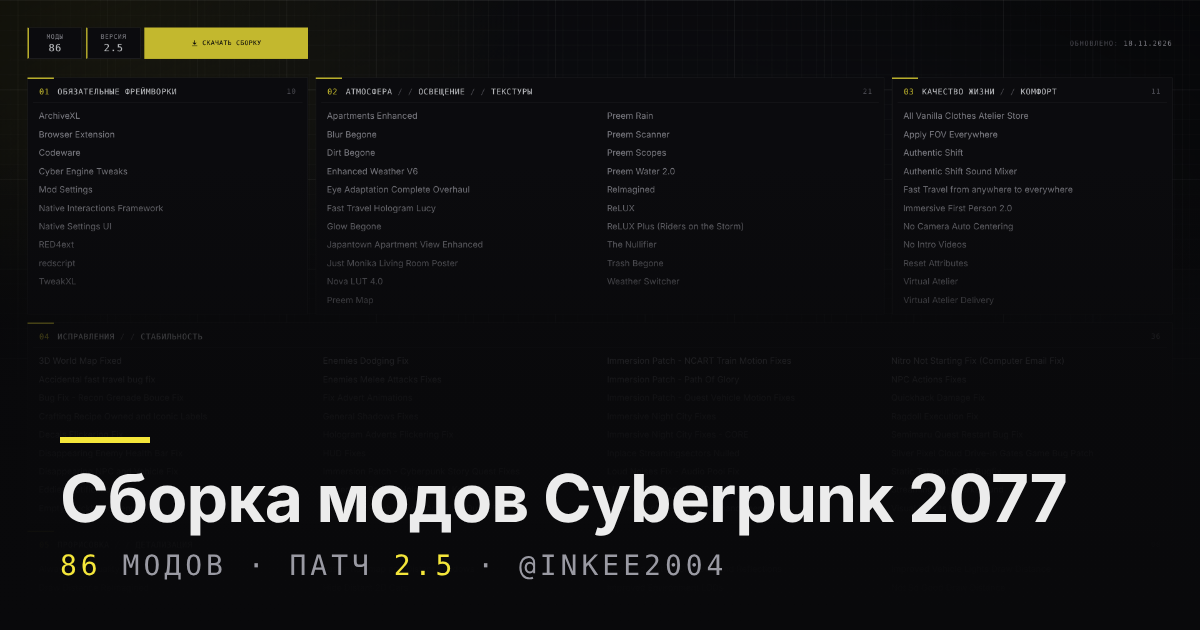
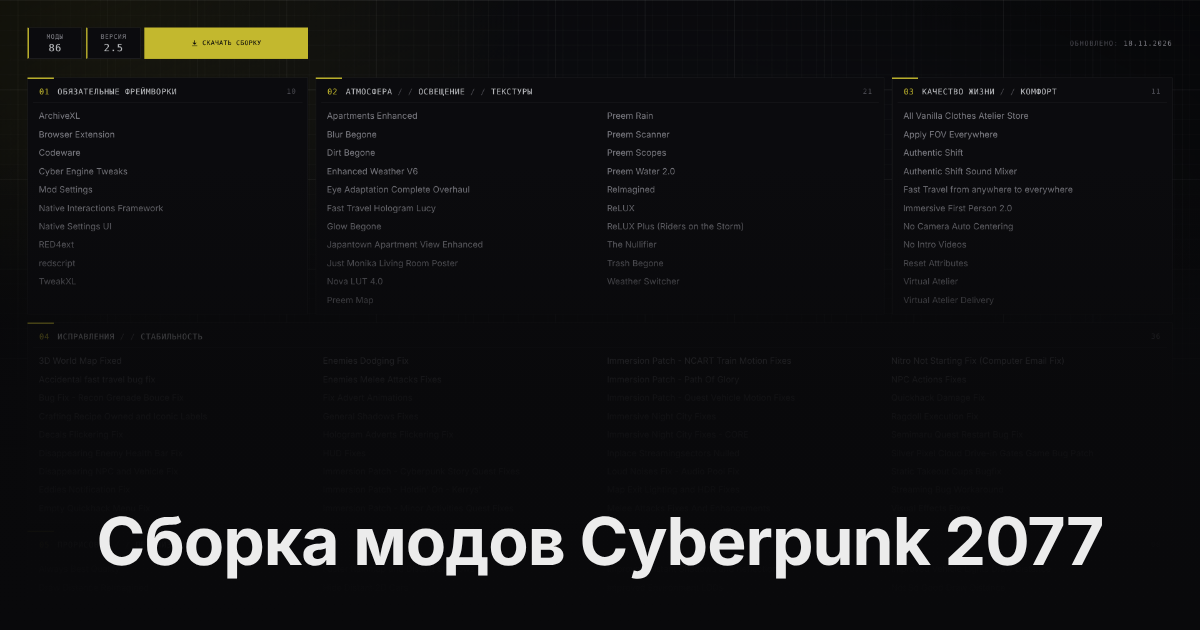
Add files via upload

Changed region(s): [[0.0308, 0.754, 0.925, 0.9349], [0.0308, 0.6937, 0.1233, 0.7238]]

diff --git a/index.html b/index.html
@@ -4,10 +4,10 @@
 <meta charset="utf-8">
 <meta name="viewport" content="width=device-width,initial-scale=1">
 <meta name="color-scheme" content="dark">
-<meta name="description" content="Сборка модов для Cyberpunk 2077, патч 2.5: 86 модов со ссылками на Nexus Mods.">
+<meta name="description" content="Сборка модов для Cyberpunk 2077 / / 2.5">
 <meta property="og:type" content="website">
 <meta property="og:title" content="Сборка модов @inkee2004">
-<meta property="og:description" content="Сборка модов для Cyberpunk 2077, патч 2.5: 86 модов со ссылками на Nexus Mods.">
+<meta property="og:description" content="Сборка модов для Cyberpunk 2077 / / 2.5">
 <meta property="og:url" content="https://inkee2004.github.io/Cyberpunk-2077/">
 <meta property="og:image" content="https://inkee2004.github.io/Cyberpunk-2077/img/og.png">
 <meta property="og:image:width" content="1200">
